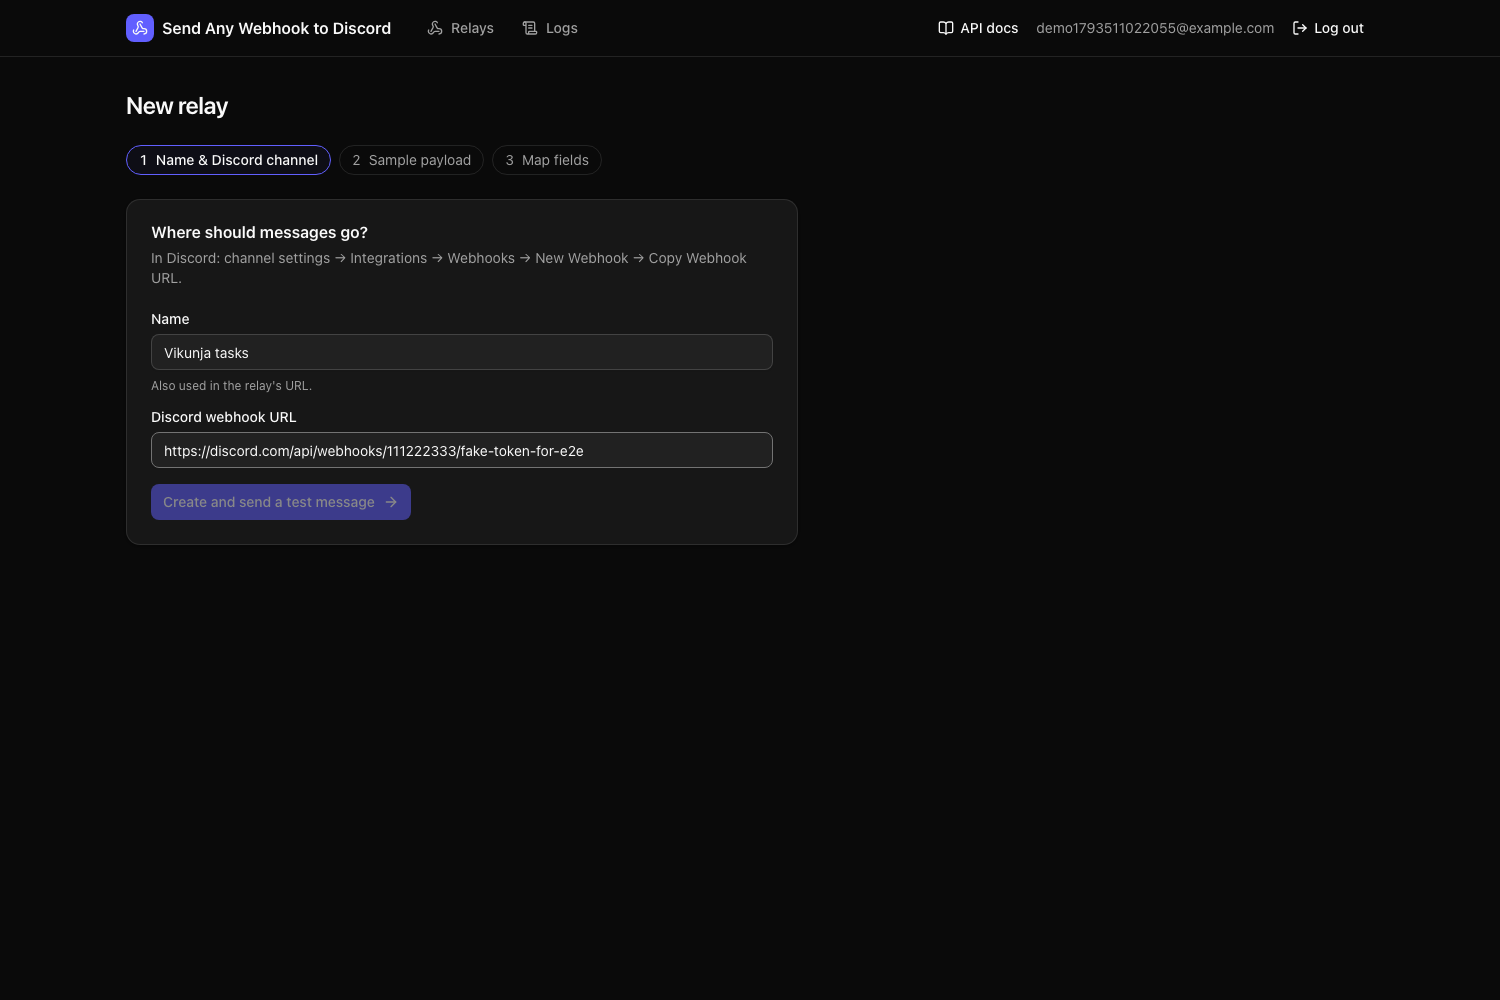
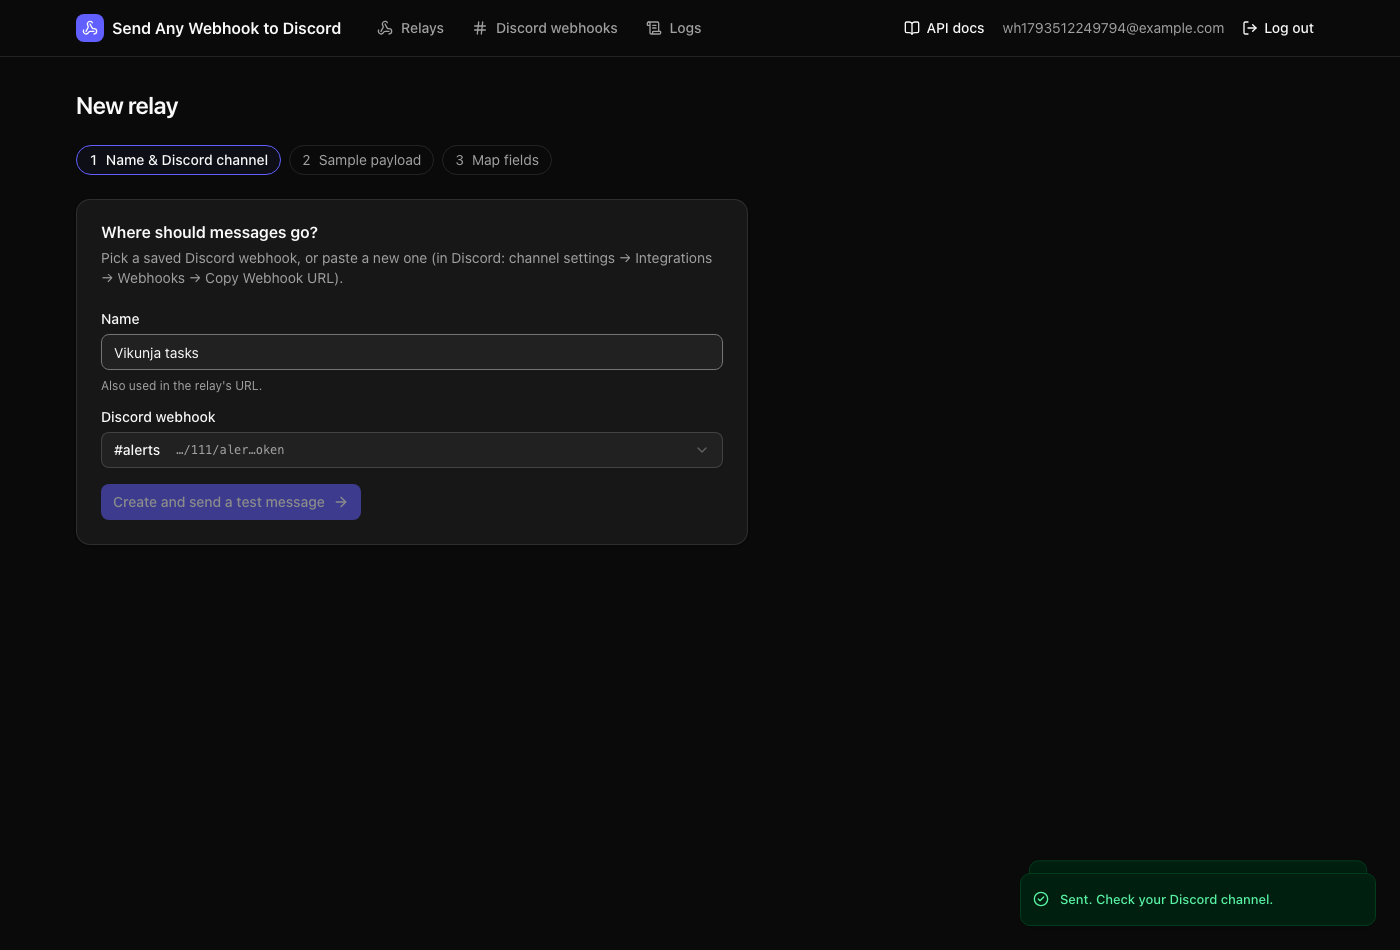
docs: saved Discord webhooks, new ports and screenshots
Document the Discord webhooks page and picker, the API for saved
webhooks, and switch every example to ports 5252/5353. Scaling now
mentions removing the backend port mapping first.

diff --git a/docs/guides/relays.md b/docs/guides/relays.md
@@ -7,7 +7,7 @@ nav_order: 1
 # Relays
 {: .no_toc }
 
-A **relay** connects one incoming URL to one Discord channel. Make one relay per source (one for Vikunja, one for your CI, and so on). To send the same events to two channels, create two relays.
+A **relay** connects one incoming URL to one Discord channel. Make one relay per source (one for Vikunja, one for your CI, and so on). Several relays can send to the same channel through one [saved Discord webhook](#saved-discord-webhooks). To send the same events to two channels, create two relays.
 
 1. TOC
 {:toc}
@@ -27,18 +27,25 @@ The part after `/h/` is the relay's **key**: a readable slug from its name, then
 
 The URL accepts `POST` and `PUT` with a JSON body. See [the ingest endpoint](../api.md#ingest-endpoint) for every response code.
 
-## The Discord channel
+## Saved Discord webhooks
 
-Paste the channel's webhook URL from **Channel settings → Integrations → Webhooks**. The app:
+Discord webhook URLs are saved once and reused. The **Discord webhooks** page lists yours, with the relays that use each one.
 
-- accepts only real Discord webhook URLs (`https://discord.com/api/webhooks/…`, including `ptb.` and `canary.`);
-- stores them encrypted with `APP_SECRET`;
-- never shows the full token again. The UI shows a masked version like `…/webhooks/1234…/AbCd…wxyz`.
+![Saved Discord webhooks]({{ '/assets/images/discord-webhooks.png' | relative_url }})
 
-To point a relay at another channel, use **Setup → Discord channel → Replace**. **Send a test message** posts a short message to check the channel works.
+- **Add** a webhook there with a name (like `#dev-alerts`) and its URL from **Channel settings → Integrations → Webhooks → Copy Webhook URL**. You can also just paste a URL while creating a relay; it's saved automatically. Pasting a URL you already saved reuses that entry instead of creating a duplicate.
+- **Edit** renames it or replaces its URL. **Every relay using it follows the new URL**, so moving a team to a new channel is one change.
+- **Test** posts a short message to the channel.
+- **Delete** works only when no relay uses it. Move those relays to another webhook first. (The webhook itself keeps existing in Discord.)
+
+The app accepts only real Discord webhook URLs (`https://discord.com/api/webhooks/…`, including `ptb.` and `canary.`), stores them encrypted with `APP_SECRET`, and never shows the token again. The UI shows a masked version like `…/webhooks/1234…/AbCd…wxyz`.
+
+## The relay's Discord channel
+
+When creating a relay, pick a saved webhook (your first one is preselected) or choose **Paste a new webhook URL**. To switch later, open the relay's **Setup** tab, choose another webhook under **Discord channel** and click **Use this webhook**. **Send a test message** checks the channel works.
 
 {: .note }
-If Discord answers **401** or **404** for a delivery (the webhook was deleted or its token is wrong), the app **disables the relay** so it stops retrying a webhook that can't work. Paste a working URL and turn the relay back on.
+If Discord answers **401** or **404** for a delivery (the webhook was deleted in Discord or its token is wrong), the app **disables every relay that uses that saved webhook**, so they stop retrying a webhook that can't work. Edit the saved webhook with a working URL (or move the relays to another one) and turn them back on.
 
 ## Enabling and disabling
 

diff --git a/docs/deployment.md b/docs/deployment.md
@@ -17,7 +17,7 @@ nav_order: 5
 | `backend` | Node.js 24 | API, Swagger, and the delivery worker. Runs database migrations on startup |
 | `postgres` | postgres:18-alpine | All data, including the delivery queue. Stored in the `pgdata` volume |
 
-Only the frontend's port (default `8080`) needs to be reachable.
+Only the frontend's port (default `5252`) needs to be reachable. The backend is also published on `127.0.0.1:5353` (`BACKEND_PORT`) for direct API access from the same machine; it is never exposed to the network.
 
 ## Prebuilt images
 
@@ -42,7 +42,7 @@ Pin a version with `IMAGE_TAG=1.2.3` in `.env`.
 
 ## HTTPS and a public URL
 
-Other services need to reach the app, so in practice it runs on a server behind HTTPS. Point a domain at the server, put any reverse proxy in front of port `8080`, and set:
+Other services need to reach the app, so in practice it runs on a server behind HTTPS. Point a domain at the server, put any reverse proxy in front of port `5252`, and set:
 
 ```sh
 PUBLIC_BASE_URL=https://webhooks.example.com
@@ -56,7 +56,7 @@ Also set `TRUST_PROXY_HOPS=2`: your proxy plus the bundled nginx. Otherwise ever
 
 ```
 webhooks.example.com {
-    reverse_proxy localhost:8080
+    reverse_proxy localhost:5252
 }
 ```
 
@@ -70,7 +70,7 @@ server {
 
     client_max_body_size 2m;
     location / {
-        proxy_pass http://127.0.0.1:8080;
+        proxy_pass http://127.0.0.1:5252;
         proxy_set_header Host $host;
         proxy_set_header X-Forwarded-For $proxy_add_x_forwarded_for;
         proxy_set_header X-Forwarded-Proto $scheme;
@@ -79,7 +79,7 @@ server {
 ```
 
 {: .tip }
-To bind the app only to localhost so it can't be reached except through the proxy, change the frontend's port mapping to `"127.0.0.1:8080:80"`.
+To bind the app only to localhost so it can't be reached except through the proxy, change the frontend's port mapping to `"127.0.0.1:5252:80"`.
 
 ## Locking it down
 
@@ -104,7 +104,7 @@ docker compose up -d
 ```
 
 {: .warning }
-A backup restored with a different `APP_SECRET` keeps its relays and logs, but the stored Discord webhook URLs can't be decrypted. Paste them again on each relay's Setup tab.
+A backup restored with a different `APP_SECRET` keeps its relays and logs, but the stored Discord webhook URLs can't be decrypted. Paste them again on the **Discord webhooks** page (**Edit**).
 
 ## Upgrading
 
@@ -128,7 +128,7 @@ Migrations run when the new backend starts. Webhooks that arrive while the backe
 
 One backend handles a lot. Ingest is a single insert, and delivery is limited mostly by Discord. If you do need more:
 
-- **More backends**: `docker compose up -d --scale backend=3`, then `docker compose restart frontend` so nginx picks up the new containers. Every backend runs a worker. Workers claim queue rows with `FOR UPDATE SKIP LOCKED`, so a webhook is never sent twice.
+- **More backends**: remove the backend's `ports:` mapping (only one container can bind `5353`), then `docker compose up -d --scale backend=3` and `docker compose restart frontend` so nginx picks up the new containers. Every backend runs a worker. Workers claim queue rows with `FOR UPDATE SKIP LOCKED`, so a webhook is never sent twice.
 - **Separate API and workers**: set `RUN_WORKER=false` on the API containers and run extra backend containers with `RUN_WORKER=true` as workers.
 
 {: .note }

diff --git a/README.md b/README.md
@@ -4,7 +4,7 @@ Relay webhooks from any service to a Discord channel, even services that only kn
 
 📖 **Documentation: https://bhumit070.github.io/send-anywebhook-to-discord/**
 
-1. Create a **relay**: a name plus the Discord channel's webhook URL. You get a URL like `https://your-host/h/vikunja_k3J9xQp2…`.
+1. Create a **relay**: a name plus a Discord channel's webhook URL. Webhook URLs are saved once and reused across relays. You get a URL like `https://your-host/h/vikunja_k3J9xQp2…`.
 2. Give it a **sample payload**: paste example JSON, paste a JSON Schema, or capture the next real webhook.
 3. **Map fields** onto a Discord message with the visual mapper (drag fields onto title, description, color, fields…) and watch a Discord-style preview update live. Or write Liquid templates directly.
 4. Paste the URL into the other service. Every webhook is queued, rendered, sent to Discord with retries, and logged with every attempt.
@@ -17,9 +17,9 @@ cp .env.example .env
 docker compose up -d --build
 ```
 
-- UI: http://localhost:8080 (sign up; the first account is just a normal user)
-- API docs (Swagger): http://localhost:8080/docs
-- Health: http://localhost:8080/healthz
+- UI: http://localhost:5252 (sign up; the first account is just a normal user)
+- API docs (Swagger): http://localhost:5252/docs
+- Health: http://localhost:5252/healthz
 
 Migrations run automatically when the backend starts. Put the stack behind HTTPS (any reverse proxy) and set `PUBLIC_BASE_URL` so relay URLs are shown correctly and the session cookie is marked `Secure`.
 
@@ -30,7 +30,7 @@ See [`.env.example`](.env.example).
 | Variable | Default | Meaning |
 |---|---|---|
 | `APP_SECRET` | required | Signs sessions and encrypts stored Discord webhook URLs. Changing it logs everyone out and makes stored webhook URLs unreadable (re-enter them). |
-| `PUBLIC_BASE_URL` | `http://localhost:8080` | Where people reach this instance. |
+| `PUBLIC_BASE_URL` | `http://localhost:5252` | Where people reach this instance. |
 | `AUTH_DISABLED` | `false` | Turns off login; everyone acts as one local user. Only for private networks. Ingest URLs still need their secret key. |
 | `ALLOW_REGISTRATION` | `true` | Allow new sign-ups. |
 | `EVENT_RETENTION_DAYS` | `14` | Delivered/skipped logs are deleted after this many days; dead/rejected after twice that. |
@@ -62,8 +62,8 @@ Requires Node 24+ and Docker (for Postgres).
 npm install
 cp .env.example .env               # uncomment DATABASE_URL (same password as POSTGRES_PASSWORD)
 npm run db:up                      # Postgres on localhost:5432
-npm run dev -w @send-any-webhook/backend   # API + worker on :3000
-npm run dev -w @send-any-webhook/frontend  # UI on :5173, proxies /api, /h, /docs to :3000
+npm run dev -w @send-any-webhook/backend   # API + worker on :5353
+npm run dev -w @send-any-webhook/frontend  # UI on :5252, proxies /api, /h, /docs to :5353
 ```
 
 ```sh

diff --git a/docs/troubleshooting.md b/docs/troubleshooting.md
@@ -16,7 +16,7 @@ Start with the **Logs**: almost every problem shows up there with an exact error
 The service's requests aren't reaching a relay.
 
 - **Wrong or old URL.** Unknown keys get `404` and aren't logged. Copy the URL again from the relay page; it may have been rotated.
-- **Not reachable.** `localhost:8080` only works on your machine. Other services need a public URL; see [HTTPS and a public URL](deployment.md#https-and-a-public-url). Test with `curl` from another machine.
+- **Not reachable.** `localhost:5252` only works on your machine. Other services need a public URL; see [HTTPS and a public URL](deployment.md#https-and-a-public-url). Test with `curl` from another machine.
 - **Rate limited.** More than 120 requests a minute to one relay get `429` and aren't logged.
 
 ## Webhooks are "rejected"
@@ -43,7 +43,7 @@ The error says why:
 
 | Error | Meaning |
 |---|---|
-| *Discord 401/404 … relay disabled* | The Discord webhook was deleted, or the URL is wrong. The app disabled the relay. Paste a working URL under **Setup → Discord channel**, turn the relay on, then **Retry** |
+| *Discord 401/404 … relays using it were disabled* | The Discord webhook was deleted, or the URL is wrong. The app disabled every relay using that saved webhook. Fix the URL on the **Discord webhooks** page (**Edit**), turn the relays on, then **Retry** |
 | *Discord 400: Invalid Form Body {…}* | Discord refused the message. The JSON after it names the bad field. The app already drops invalid URLs and cuts long text, so this is rare; open the template and check the preview's warnings |
 | *Template "…": The message is empty for this payload* | Every part of the message rendered empty (often mapped fields that don't exist in this payload). Add a fallback (**If empty, show**) or static text |
 | *Template "…": embeds[0].title: …* | A Liquid syntax or render error in that slot |
@@ -70,9 +70,9 @@ After fixing a template, filter the logs by **dead**, select the rows and **Retr
 - **Logged out unexpectedly**: sessions last 30 days, and changing `APP_SECRET` ends all of them.
 - **Can't stay logged in over plain HTTP on a server**: if `PUBLIC_BASE_URL` starts with `https://`, the cookie is `Secure` and browsers won't send it over `http://`. Use the HTTPS address.
 
-## Relays show "https://discord.com/api/webhooks/…" with no ID
+## Saved webhooks show "https://discord.com/api/webhooks/…" with no ID
 
-`APP_SECRET` changed since the relay was created, so its Discord URL can't be decrypted. Restore the old secret, or paste the Discord URL again on the relay's **Setup** tab.
+`APP_SECRET` changed since the URL was saved, so it can't be decrypted. Restore the old secret, or paste the URL again on the **Discord webhooks** page (**Edit**).
 
 ## Startup errors
 

diff --git a/docs/api.md b/docs/api.md
@@ -6,7 +6,7 @@ nav_order: 6
 # API
 {: .no_toc }
 
-Everything the UI does goes through a JSON API, documented with **Swagger at `/docs`** on your instance (for example <http://localhost:8080/docs>). The raw OpenAPI spec is at `/docs/json`.
+Everything the UI does goes through a JSON API, documented with **Swagger at `/docs`** on your instance (for example <http://localhost:5252/docs>). The raw OpenAPI spec is at `/docs/json`.
 
 1. TOC
 {:toc}
@@ -64,6 +64,7 @@ In Swagger UI, log in through the `/api/auth/login` operation ("Try it out"). Th
 |---|---|
 | System | `GET /healthz`, `GET /api/config` |
 | Auth | `POST /api/auth/register`, `POST /api/auth/login`, `POST /api/auth/logout`, `GET /api/auth/me` |
+| Discord webhooks | `GET/POST /api/discord-webhooks`, `PATCH/DELETE /api/discord-webhooks/{id}`, `POST /api/discord-webhooks/{id}/test` |
 | Relays | `GET/POST /api/relays`, `GET/PATCH/DELETE /api/relays/{id}`, `POST /api/relays/{id}/rotate-key`, `PUT /api/relays/{id}/sample`, `POST /api/relays/{id}/capture`, `POST /api/relays/{id}/test` |
 | Templates | `GET/POST /api/relays/{id}/templates`, `PATCH/DELETE /api/relays/{id}/templates/{templateId}`, `POST /api/preview`, `POST /api/mapping/auto` |
 | Queue and logs | `GET /api/queue`, `GET /api/queue/stats`, `GET /api/queue/{id}`, `POST /api/queue/{id}/send`, `POST /api/queue/send`, `POST /api/queue/send-oldest`, `POST /api/queue/{id}/retry`, `POST /api/queue/retry`, `POST /api/queue/{id}/cancel`, `POST /api/queue/cancel`, `POST /api/queue/{id}/replay` |
@@ -72,13 +73,20 @@ Swagger has the request and response schemas for each.
 
 ## Examples
 
-Create a relay:
+Save a Discord webhook, then create a relay that uses it:
 
 ```sh
 curl -b cookies.txt -H 'Content-Type: application/json' \
-  -d '{"name":"CI","discordWebhookUrl":"https://discord.com/api/webhooks/…"}' \
+  -d '{"name":"#ci","url":"https://discord.com/api/webhooks/…"}' \
+  https://webhooks.example.com/api/discord-webhooks
+# → {"id":"<webhook-id>", …}
+
+curl -b cookies.txt -H 'Content-Type: application/json' \
+  -d '{"name":"CI","discordWebhookId":"<webhook-id>"}' \
   https://webhooks.example.com/api/relays
 ```
+
+Or pass `discordWebhookUrl` (and optionally `discordWebhookName`) instead of `discordWebhookId`. The URL is saved, or matched to one you already saved.
 
 Find failed deliveries from the last day that Discord rate-limited:
 

diff --git a/docs/configuration.md b/docs/configuration.md
@@ -19,14 +19,14 @@ All settings are environment variables. With Docker Compose they're read from `.
 | `POSTGRES_PASSWORD` | Password for the bundled Postgres. Compose uses it for both the database and the backend's `DATABASE_URL`. |
 
 {: .warning }
-Changing `APP_SECRET` logs everyone out. The app can then no longer decrypt stored Discord webhook URLs, so you'd need to paste each relay's URL again under **Setup → Discord channel → Replace**. Keep it safe and keep it stable.
+Changing `APP_SECRET` logs everyone out. The app can then no longer decrypt stored Discord webhook URLs, so you'd need to paste each URL again on the **Discord webhooks** page (**Edit**). Keep it safe and keep it stable.
 
 ## General
 
 | Variable | Default | Description |
 |---|---|---|
-| `PORT` | `8080` | Host port the web UI, API and ingest endpoint are published on. |
-| `PUBLIC_BASE_URL` | `http://localhost:8080` | The address people and services reach the app at. Relay URLs shown in the UI are built from it. If it starts with `https://`, the session cookie is marked `Secure`. |
+| `PORT` | `5252` | Host port the web UI, API and ingest endpoint are published on. |
+| `PUBLIC_BASE_URL` | `http://localhost:5252` | The address people and services reach the app at. Relay URLs shown in the UI are built from it. If it starts with `https://`, the session cookie is marked `Secure`. |
 | `LOG_LEVEL` | `info` | Backend log level: `fatal`, `error`, `warn`, `info`, `debug` or `trace`. Logs are JSON on stdout. |
 | `TRUST_PROXY_HOPS` | `1` | How many reverse proxies sit in front of the backend. `1` is the bundled nginx; use `2` when you add your own proxy for HTTPS. The client IP (used for login rate limits and shown in logs) is read from `X-Forwarded-For` only through these proxies, so clients can't fake it. |
 
@@ -54,7 +54,7 @@ These matter when running the backend outside Docker (see [Development](developm
 | Variable | Default | Description |
 |---|---|---|
 | `DATABASE_URL` | — | Postgres connection string. Compose sets this itself. |
-| `BACKEND_PORT` | `3000` | Port the API listens on. |
+| `BACKEND_PORT` | `5353` | Port the backend listens on (in Docker: the localhost port it's published on). |
 | `HOST` | `0.0.0.0` | Interface the API binds to. |
 | `PRETTY_LOGS` | `false` | Human-readable logs instead of JSON. |
 

diff --git a/docs/getting-started.md b/docs/getting-started.md
@@ -36,9 +36,9 @@ The first build takes a few minutes. When `docker compose ps` shows all three se
 
 | URL | What |
 |---|---|
-| <http://localhost:8080> | The web UI |
-| <http://localhost:8080/docs> | Swagger API docs |
-| <http://localhost:8080/healthz> | Health check (`{"status":"ok","db":"ok"}`) |
+| <http://localhost:5252> | The web UI |
+| <http://localhost:5252/docs> | Swagger API docs |
+| <http://localhost:5252/healthz> | Health check (`{"status":"ok","db":"ok"}`) |
 
 {: .note }
 Database migrations run automatically every time the backend starts. There's no separate setup step.
@@ -48,7 +48,7 @@ Don't want to build images? See [Prebuilt images](deployment.md#prebuilt-images)
 
 ## 2. Create an account
 
-Open <http://localhost:8080> and click **Sign up**. Passwords need at least 8 characters.
+Open <http://localhost:5252> and click **Sign up**. Passwords need at least 8 characters.
 
 Running the app only for yourself on a private network? Set `AUTH_DISABLED=true` in `.env` and skip logins entirely. See [Configuration](configuration.md#authentication).
 
@@ -66,7 +66,7 @@ Click **New relay** and follow the three steps:
 
 ![The New relay form]({{ '/assets/images/new-relay.png' | relative_url }})
 
-1. **Name and Discord channel.** Enter a name (it also becomes part of the URL) and paste the webhook URL. The app sends a test message to the channel so you know it works.
+1. **Name and Discord channel.** Enter a name (it also becomes part of the URL) and paste the webhook URL, giving it a name like `#dev-alerts`. The URL is saved, so next time you just pick it from the list. The app sends a test message to the channel so you know it works.
 2. **Sample payload.** Show the app what the other service sends. Choose one:
    - **Paste JSON**: an example from the service's docs.
    - **JSON Schema**: the app generates an example from the schema.
@@ -80,7 +80,7 @@ Click **New relay** and follow the three steps:
 Copy the relay's URL from its page and paste it wherever the other service asks for a webhook URL. Try it from a terminal first:
 
 ```sh
-curl -X POST 'http://localhost:8080/h/<your-relay-key>' \
+curl -X POST 'http://localhost:5252/h/<your-relay-key>' \
   -H 'Content-Type: application/json' \
   -d '{"event":"test","message":"Hello from curl"}'
 ```

diff --git a/docs/development.md b/docs/development.md
@@ -34,11 +34,11 @@ Then, in separate terminals:
 
 ```sh
 npm run db:up                      # Postgres in Docker, exposed on localhost:5432
-npm run dev -w @send-any-webhook/backend   # API + worker on :3000, restarts on changes
-npm run dev -w @send-any-webhook/frontend  # UI on http://localhost:5173 with hot reload
+npm run dev -w @send-any-webhook/backend   # API + worker on :5353, restarts on changes
+npm run dev -w @send-any-webhook/frontend  # UI on http://localhost:5252 with hot reload
 ```
 
-The Vite dev server forwards `/api`, `/h`, `/docs` and `/healthz` to `localhost:3000`, just like nginx does in Docker. Set `PUBLIC_BASE_URL=http://localhost:5173` so relay URLs point at the dev server.
+The Vite dev server forwards `/api`, `/h`, `/docs` and `/healthz` to `localhost:5353`, just like nginx does in Docker. Set `PUBLIC_BASE_URL=http://localhost:5252` so relay URLs point at the dev server.
 
 {: .note }
 Both `dev` scripts build `packages/shared` first. If you change code in `packages/shared` while they're running, rebuild it with `npm run build -w @send-any-webhook/shared`.

diff --git a/docs/guides/index.md b/docs/guides/index.md
@@ -8,7 +8,7 @@ has_children: true
 
 How to use each part of the app:
 
-- [Relays](relays.md): incoming URLs, Discord channels, enabling and rotating keys
+- [Relays](relays.md): incoming URLs, saved Discord webhooks, enabling and rotating keys
 - [Sample payloads](samples.md): example JSON, JSON Schema, live capture
 - [Mapping fields](mapping.md): the visual mapper and its preview
 - [Templates and conditions](templates.md): several templates per relay, and the Liquid reference
